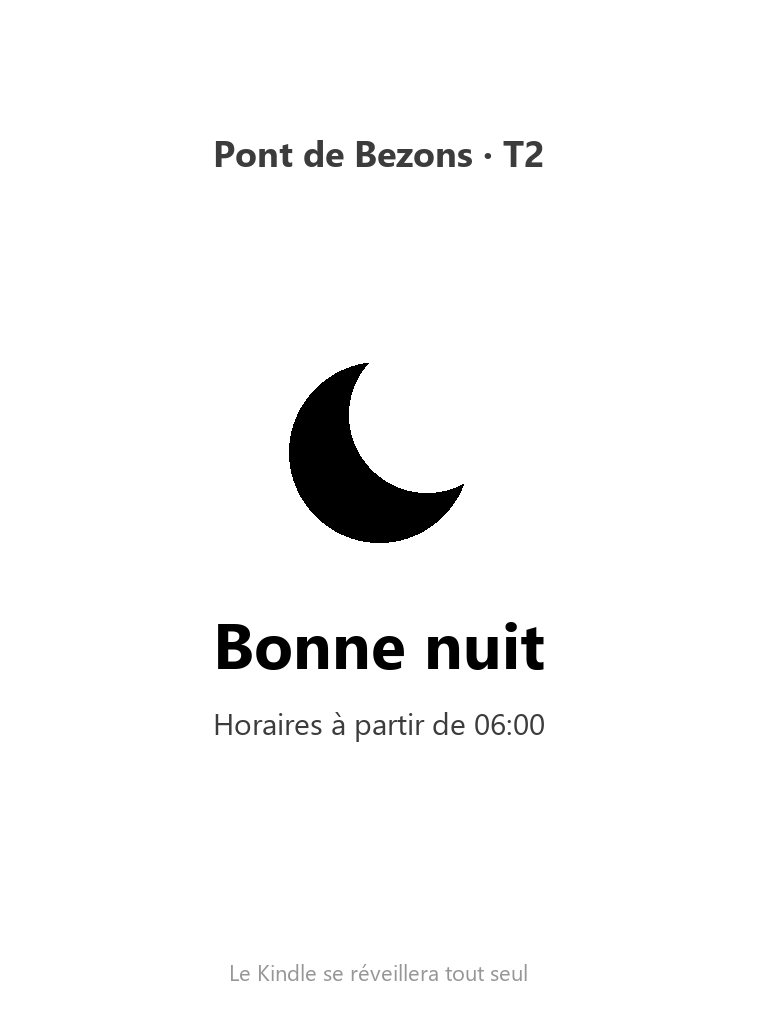
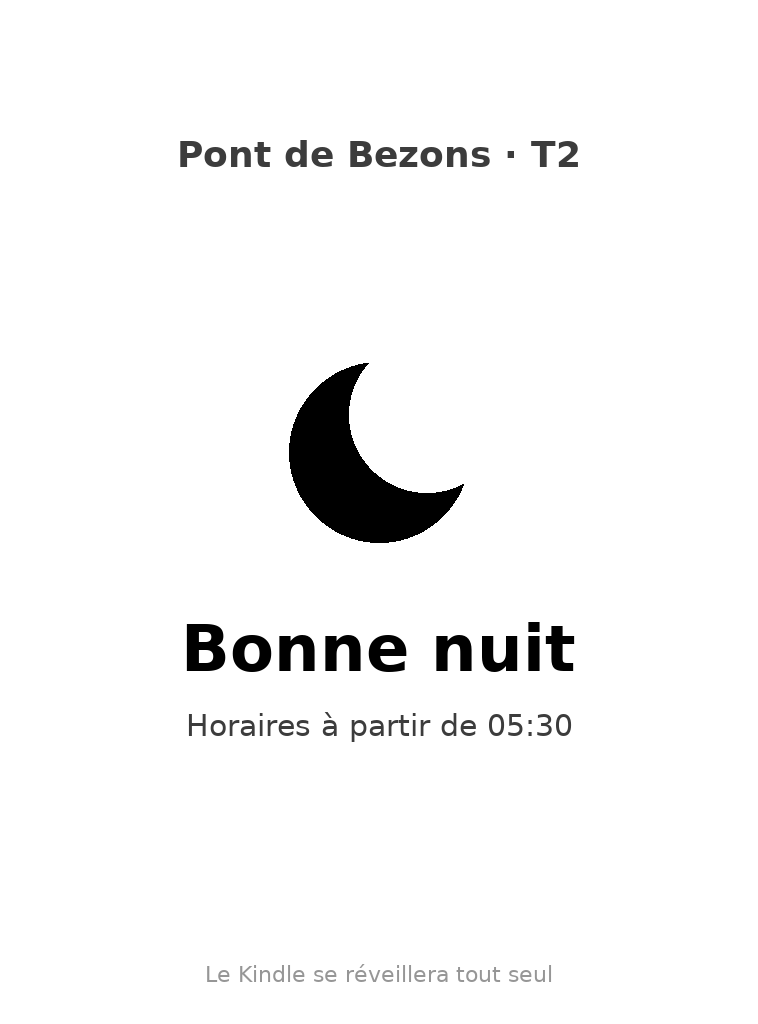
Horaires : actif dès 5h30, écran nuit seulement après le dernier T2 (0h50, 1h50 le week-end)

diff --git a/server.py b/server.py
@@ -70,8 +70,13 @@ def current_mode(now: datetime) -> tuple[str, int]:
     """→ ("night"|"active"|"normal", refresh_s)"""
     t = now.time()
     night = SCHED.get("night")
-    if night and _in_window(t, night["start"], night["end"]):
-        return "night", int(night.get("refresh_s", 1800))
+    if night:
+        # Nuits de vendredi→samedi et samedi→dimanche : dernier tram plus tard (start_weekend).
+        start = night["start"]
+        if now.weekday() in (5, 6) and night.get("start_weekend"):
+            start = night["start_weekend"]
+        if _in_window(t, start, night["end"]):
+            return "night", int(night.get("refresh_s", 1800))
     active = SCHED.get("active")
     if active and _in_window(t, active["start"], active["end"]):
         return "active", int(active.get("refresh_s", 60))

diff --git a/README.md b/README.md
@@ -53,8 +53,9 @@ L'image n'est jamais régénérée plus d'une fois toutes les 30 s (`schedule.mi
 l'API PRIM pas plus d'une fois toutes les 30 s (`prim.cache_s`). Si PRIM tombe,
 la dernière réponse valide reste affichée avec « Données indisponibles ».
 
-Plages horaires (`config.yaml` → `schedule`) : 6h–10h rafraîchissement conseillé 60 s,
-reste de la journée 5 min, 23h–6h écran « nuit » (heure + lune, aucun appel API).
+Plages horaires (`config.yaml` → `schedule`) : 5h30–10h rafraîchissement conseillé 60 s,
+reste de la journée 5 min, écran « nuit » (heure + lune, aucun appel API) de 0h50 à 5h30,
+de 1h50 à 5h30 les nuits de vendredi et samedi (dernier T2 ~0h30, ~1h30 le week-end).
 Le délai conseillé est renvoyé dans l'en-tête HTTP `X-Refresh-Seconds`.
 
 ## 4 bis. Hébergement cloud (Render) — la solution en service
@@ -109,8 +110,9 @@ netsh advfirewall firewall add rule name="Kindle T2" dir=in action=allow protoco
 Affichage par **kindle-dash**, fork Paperwhite [pusi77/kindle-dash-pw3](https://github.com/pusi77/kindle-dash-pw3)
 (même plateforme Wario que le PW2). Installé dans `/mnt/us/dashboard` avec nos réglages depuis `kindle/` :
 
-- `kindle/dashboard/local/env.sh` : URL de l'image (Render), toutes les 10 min de 6h à 22h50, **toutes les minutes de 6h à 9h59**
-  (`PEAK_SCHEDULE`, combiné par le wrapper `kindle/dashboard/next-wakeup`), écran nuit ensuite.
+- `kindle/dashboard/local/env.sh` : URL de l'image (Render) et horaires de réveil : **toutes les minutes de 5h30 à 9h59**,
+  toutes les 10 min jusqu'à 0h50 (1h50 les nuits de vendredi et samedi), puis écran nuit jusqu'à 5h30.
+  Plusieurs expressions cron (`EXTRA_SCHEDULES`) combinées par le wrapper `kindle/dashboard/next-wakeup`.
 - `kindle/dashboard/local/fetch-dashboard.sh` : curl avec délais larges ; si le magasin de certificats du Kindle
   refuse le certificat, second essai avec `kindle/dashboard/cacert.pem` (bundle Mozilla, vérification TLS conservée).
 - `kindle/documents/*.sh` : scriptlets visibles comme des livres dans la bibliothèque.
@@ -120,6 +122,7 @@ Utilisation :
 
 - **« Tableau de bord T2 - Test »** : une seule récupération + affichage, l'interface Kindle reste. Log : `dashboard/logs/test.log`.
 - **« Tableau de bord T2 - Démarrer »** : lance la boucle (interface Kindle coupée, veille profonde entre deux réveils). Log : `dashboard/logs/dash.log`, batterie : `dashboard/battery.log`.
+- Changer les horaires de réveil ou l'écran nuit = modifier `kindle/`, puis `kindle/copier_dashboard.ps1` avec le Kindle en USB.
 - **Arrêter** : maintenir le bouton d'allumage ~40 s (redémarrage, rien ne se relance tout seul), ou créer un fichier `dashboard/STOP`.
 - Brancher sur un **chargeur mural** (pas un PC : le mode USB coupe la boucle) : branché, le Kindle ne se met pas en veille et garde le Wi-Fi, idéal au mur.
 - Le serveur doit être joignable sur `http://192.168.1.6:8080/kindle.png` : Python est autorisé dans le pare-feu (profil privé).
